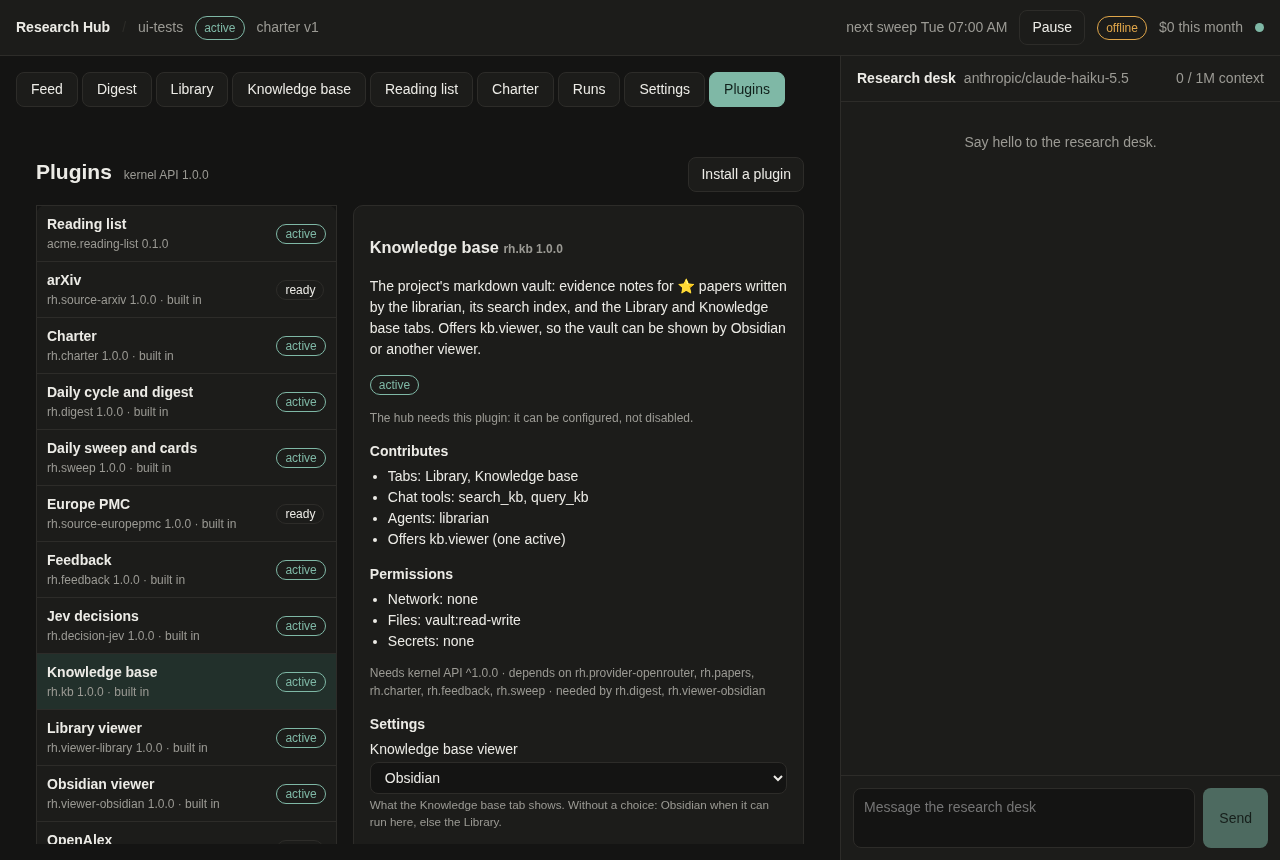
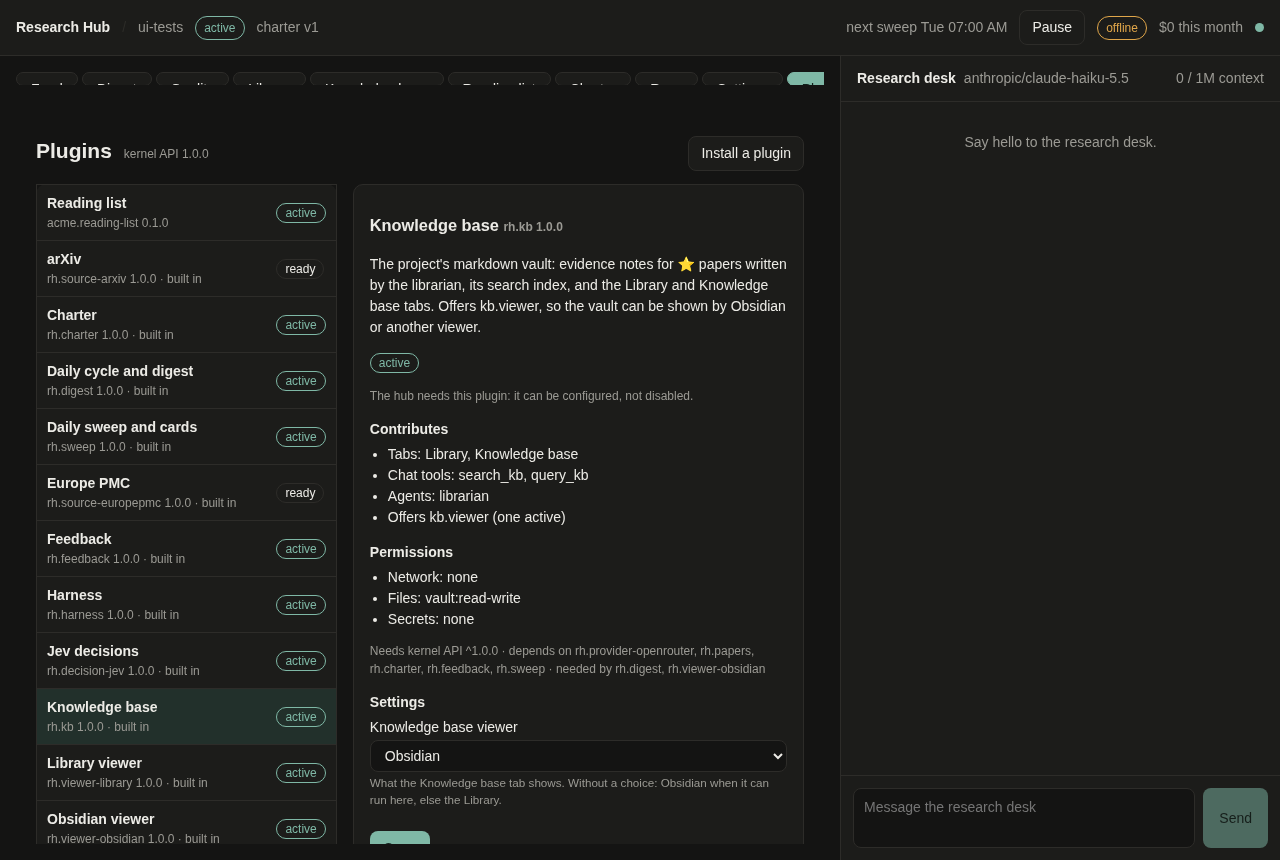
v1-2 4.2: the Quality tab and the digest's Quality section
The Quality tab shows the judge's agreement (with what it still needs to be
trusted), the cards over time, and every replay with its verdict, nDCG change
and held-out interval, plus a "Try a setting" form. Object settings such as
rankWeights are edited as JSON. Tab labels stay on one line.

diff --git a/apps/rh-client-browser/src/components/QualityTab.vue b/apps/rh-client-browser/src/components/QualityTab.vue
@@ -1,0 +1,146 @@
+<script setup lang="ts">
+// The Quality tab (spec harness: Quality view): how well the judge agrees with you, how good the cards have been
+// (the current settings replayed over past sweeps), and every replay with its numbers and verdict.
+import { computed, onMounted, ref } from "vue";
+import type { HarnessQuality, StoredReplay } from "@rh/sdk";
+import { client } from "../store.ts";
+
+const quality = ref<HarnessQuality>();
+const error = ref("");
+const variantText = ref('{ "cardsPerSweep": 10 }');
+const running = ref(false);
+const load = async () => {
+  try {
+    quality.value = await client.quality();
+  } catch (e) {
+    error.value = e instanceof Error ? e.message : String(e);
+  }
+};
+onMounted(load);
+
+const pct = (x: number | null | undefined) => (x === null || x === undefined ? "—" : `${Math.round(x * 100)}%`);
+const num = (x: number | undefined) => (x === undefined ? "—" : x.toFixed(2));
+const signed = (x: number) => `${x >= 0 ? "+" : ""}${x.toFixed(2)}`;
+const day = (iso: string) => new Date(iso).toLocaleDateString(undefined, { day: "numeric", month: "short" });
+const describe = (r: StoredReplay) =>
+  Object.entries(r.variant)
+    .map(([k, v]) => `${k} ${typeof v === "object" ? JSON.stringify(v) : v}`)
+    .join(", ") || "current settings";
+const judgeNote = computed(() => {
+  const j = quality.value?.judge;
+  if (!j) return "The judge is calibrated each night once you have judged cards.";
+  if (j.trusted) return "Trusted: unjudged papers in replays are labelled by the judge.";
+  if (j.cases < j.minCases) return `Not trusted yet: ${j.minCases - j.cases} more judged cards needed.`;
+  return `Not trusted: it needs ${pct(j.minAgreement)} agreement. Replays use only your judgments.`;
+});
+
+async function replay() {
+  error.value = "";
+  let variant: unknown;
+  try {
+    variant = JSON.parse(variantText.value);
+  } catch {
+    error.value = `The setting must be JSON, for example { "cardsPerSweep": 10 }.`;
+    return;
+  }
+  running.value = true;
+  try {
+    await client.replay(variant as never);
+    await load();
+  } catch (e) {
+    error.value = e instanceof Error ? e.message : String(e);
+  } finally {
+    running.value = false;
+  }
+}
+</script>
+
+<template>
+  <div class="quality">
+    <h2>Quality</h2>
+    <p class="muted">
+      How good your cards have been, measured on your own judgments. Changes to how papers are found are replayed on
+      past sweeps before anything changes; the most recent sweeps are held out to check a result is real.
+    </p>
+    <p v-if="error" class="error">{{ error }}</p>
+    <template v-if="quality">
+      <section class="digest-section" data-test="judge">
+        <h3>The judge</h3>
+        <p>
+          Agrees with you in <strong>{{ pct(quality.judge?.agreement) }}</strong> of
+          {{ quality.judge?.cases ?? 0 }} judged cards<template
+            v-if="quality.judge?.kappa !== null && quality.judge?.kappa !== undefined"
+          >
+            (kappa {{ quality.judge.kappa.toFixed(2) }})</template
+          >.
+        </p>
+        <p class="muted small">
+          {{ judgeNote }} Labels: {{ quality.labels.judged }} yours, {{ quality.labels.judge }} the judge's.
+        </p>
+      </section>
+
+      <section class="digest-section">
+        <h3>Your cards over time</h3>
+        <p v-if="!quality.overTime.length" class="muted">No finished sweeps yet.</p>
+        <table v-else class="small">
+          <thead>
+            <tr>
+              <th>Sweep</th>
+              <th>nDCG</th>
+              <th>Precision@5</th>
+              <th>Judged</th>
+            </tr>
+          </thead>
+          <tbody>
+            <tr v-for="q in quality.overTime" :key="q.sweepId" class="static">
+              <td>{{ day(q.startedAt) }}</td>
+              <td>{{ num(q.ndcg) }}</td>
+              <td>{{ pct(q.precision5) }}</td>
+              <td>{{ pct(q.coverage) }}</td>
+            </tr>
+          </tbody>
+        </table>
+      </section>
+
+      <section class="digest-section" data-test="replays">
+        <h3>Replays</h3>
+        <p v-if="!quality.replays.length" class="muted">
+          No replays yet. The weekly upgrade runs them; you can ask the desk ("would 10 cards a day be better?") or try
+          one here.
+        </p>
+        <ul class="replays">
+          <li v-for="r in quality.replays" :key="r.id" :data-verdict="r.report.verdict">
+            <div>
+              <span class="badge" :class="'verdict-' + r.report.verdict.replaceAll(' ', '-')">{{
+                r.report.verdict
+              }}</span>
+              <strong>{{ describe(r) }}</strong>
+              <span class="muted small"> · {{ day(r.createdAt) }} · by {{ r.requestedBy }}</span>
+            </div>
+            <div v-if="r.report.verdict === 'not enough data'" class="small muted">
+              {{ r.report.sweeps.labelled }} of {{ r.report.sweeps.total }} past sweeps have judged cards; 3 are needed.
+            </div>
+            <div v-else class="small">
+              nDCG {{ num(r.report.mean.current.ndcg) }} → {{ num(r.report.mean.candidate.ndcg) }}; latest
+              {{ r.report.heldOut.n }} sweeps {{ signed(r.report.heldOut.diff) }} (95 % interval
+              {{ signed(r.report.heldOut.low) }} to {{ signed(r.report.heldOut.high) }}); precision@5
+              {{ pct(r.report.mean.current.precision5) }} → {{ pct(r.report.mean.candidate.precision5) }}
+              <span v-if="r.report.estimated" class="muted"> · {{ r.report.estimated }} estimated</span>
+              <span class="muted"> · {{ r.report.judgeUsed ? "with the judge's labels" : "your judgments only" }}</span>
+            </div>
+          </li>
+        </ul>
+        <details>
+          <summary class="small">Try a setting</summary>
+          <form class="comment-form" @submit.prevent="replay">
+            <input v-model="variantText" aria-label="Setting to replay" />
+            <button class="ghost" type="submit" :disabled="running">{{ running ? "Replaying…" : "Replay" }}</button>
+          </form>
+          <p class="muted small">
+            Any of relevanceMin, worthMin, rankWeights, cardsPerSweep, explorationPicks. Nothing changes; no paid calls.
+          </p>
+        </details>
+      </section>
+    </template>
+  </div>
+</template>

diff --git a/apps/rh-client-browser/src/components/PluginSettingsForm.vue b/apps/rh-client-browser/src/components/PluginSettingsForm.vue
@@ -15,11 +15,18 @@ const emit = defineEmits<{ saved: [] }>();
 const plugins = usePlugins();
 const form = ref<Record<string, unknown>>({});
 const problems = ref<string[]>([]);
+/** Object and array settings are edited as JSON. */
+const json = ref<Record<string, string>>({});
 const saved = ref("");
 watch(
   () => props.values,
   // A choice that is not saved shows as "" (Automatic, for the viewer).
-  (v) => (form.value = Object.fromEntries(Object.keys(props.properties).map((k) => [k, v[k] ?? ""]))),
+  (v) => {
+    form.value = Object.fromEntries(Object.keys(props.properties).map((k) => [k, v[k] ?? ""]));
+    json.value = Object.fromEntries(
+      Object.keys(props.properties).map((k) => [k, v[k] === undefined ? "" : JSON.stringify(v[k], null, 1)]),
+    );
+  },
   { immediate: true, deep: true },
 );
 /** Choices for a property: its enum, or the contributions to the extension point it selects (kb.viewer). */
@@ -46,6 +53,14 @@ async function save() {
   for (const key of Object.keys(props.properties)) {
     const before = props.values[key] ?? "";
     let value = form.value[key];
+    if (props.properties[key].type === "object" || props.properties[key].type === "array") {
+      try {
+        value = json.value[key].trim() ? JSON.parse(json.value[key]) : "";
+      } catch {
+        problems.value = [`${key}: not valid JSON`];
+        return;
+      }
+    }
     const type = props.properties[key].type;
     if ((type === "integer" || type === "number") && typeof value === "string" && value.trim() !== "")
       value = Number(value);
@@ -75,6 +90,12 @@ async function save() {
         <select v-if="choices[key]" v-model="form[key]">
           <option v-for="c in choices[key]" :key="String(c.value)" :value="c.value">{{ c.label }}</option>
         </select>
+        <textarea
+          v-else-if="p.type === 'object' || p.type === 'array'"
+          v-model="json[key]"
+          rows="3"
+          spellcheck="false"
+        />
         <input
           v-else
           v-model="form[key]"

diff --git a/apps/rh-client-browser/e2e/quality.spec.ts b/apps/rh-client-browser/e2e/quality.spec.ts
@@ -1,0 +1,28 @@
+// Spec harness: Quality view (v1-2 task 4.2).
+import { join } from "node:path";
+import { expect, test } from "@playwright/test";
+
+const SHOTS = join(import.meta.dirname, "../../../openspec/changes/v1-2-harness/trial");
+
+test("the Quality tab shows the judge, the cards over time and a replay with its verdict", async ({ page }) => {
+  await page.goto("#/quality");
+  await expect(page.getByRole("heading", { name: "Quality", exact: true })).toBeVisible();
+  await expect(page.locator('[data-test="judge"]')).toContainText("Agrees with you");
+  await page.getByText("Try a setting").click();
+  await page.getByLabel("Setting to replay").fill('{ "cardsPerSweep": 9 }');
+  await page.getByRole("button", { name: "Replay" }).click();
+  await expect(page.locator('[data-test="replays"] li').first()).toContainText("cardsPerSweep 9");
+  await expect(page.locator('[data-test="replays"] li').first()).toContainText("not enough data");
+  await page.getByLabel("Setting to replay").fill('{ "cardsPerSweep": 40 }');
+  await page.getByRole("button", { name: "Replay" }).click();
+  await expect(page.locator(".quality .error")).toContainText("cardsPerSweep: must be an integer from 1 to 15");
+});
+
+for (const scheme of ["light", "dark"] as const)
+  test(`screenshot of the Quality tab (${scheme})`, async ({ browser }) => {
+    const page = await browser.newPage({ colorScheme: scheme, viewport: { width: 1280, height: 860 } });
+    await page.goto("#/quality");
+    await expect(page.locator('[data-test="replays"]')).toBeVisible();
+    await page.screenshot({ path: join(SHOTS, `quality-${scheme}.png`), fullPage: true });
+    await page.close();
+  });

diff --git a/apps/rh-client-browser/src/components/DigestTab.vue b/apps/rh-client-browser/src/components/DigestTab.vue
@@ -19,6 +19,7 @@ const sections: { id: DigestSection; title: string }[] = [
   { id: "judgments", title: "Your judgments" },
   { id: "exploration", title: "Exploration picks" },
   { id: "knowledgeBase", title: "Knowledge base" },
+  { id: "quality", title: "Quality" },
   { id: "cost", title: "Cost" },
   { id: "changes", title: "What changed" },
   { id: "general", title: "Anything else" },
@@ -153,6 +154,20 @@ async function undo(commit: string, message: string) {
           <p v-if="!digest.knowledgeBase.added.length" class="muted">No new notes.</p>
           <ul class="small">
             <li v-for="n in digest.knowledgeBase.added" :key="n.stem">{{ n.title }}</li>
+          </ul>
+        </template>
+        <template v-else-if="sec.id === 'quality'">
+          <p v-if="!digest.quality?.judge" class="muted">The judge has not been calibrated yet.</p>
+          <p v-else>
+            The judge agrees with you in {{ pct(digest.quality.judge.agreement) }} of
+            {{ digest.quality.judge.cases }} cases ({{ digest.quality.judge.trusted ? "trusted" : "not trusted yet" }}).
+          </p>
+          <ul class="small">
+            <li v-for="r in digest.quality?.replays ?? []" :key="r.id">
+              {{ Object.keys(r.variant).join(", ") || "current settings" }}: <strong>{{ r.verdict }}</strong> ({{
+                r.heldOutDiff >= 0 ? "+" : ""
+              }}{{ r.heldOutDiff.toFixed(2) }} nDCG)
+            </li>
           </ul>
         </template>
         <template v-else-if="sec.id === 'cost'">

diff --git a/apps/rh-client-browser/src/styles.css b/apps/rh-client-browser/src/styles.css
@@ -1060,3 +1060,40 @@ button.danger {
 .cycle-status {
   margin: 4px 0 8px;
 }
+
+/* Quality (v1.2) */
+.quality {
+  padding: 16px 20px 40px;
+  overflow: auto;
+}
+.replays {
+  list-style: none;
+  padding: 0;
+}
+.replays li {
+  padding: 6px 0;
+  border-bottom: 1px solid var(--line);
+}
+.badge.verdict-better {
+  color: var(--accent);
+  border-color: var(--accent);
+}
+.badge.verdict-worse {
+  color: var(--error);
+  border-color: var(--error);
+}
+.plugin-settings textarea {
+  font:
+    12px/1.4 ui-monospace,
+    monospace;
+}
+
+/* Many tabs: keep labels on one line and let the bar scroll. */
+.tabs {
+  overflow-x: auto;
+  flex-wrap: nowrap;
+}
+.tabs button {
+  white-space: nowrap;
+  flex: none;
+}

diff --git a/apps/rh-client-browser/src/App.vue b/apps/rh-client-browser/src/App.vue
@@ -10,6 +10,7 @@ import FeedView from "./components/FeedView.vue";
 import KnowledgeTab from "./components/KnowledgeTab.vue";
 import LibraryTab from "./components/LibraryTab.vue";
 import PluginsTab from "./components/PluginsTab.vue";
+import QualityTab from "./components/QualityTab.vue";
 import RunsView from "./components/RunsView.vue";
 import SettingsTab from "./components/SettingsTab.vue";
 import TopBar from "./components/TopBar.vue";
@@ -20,6 +21,7 @@ import { usePlugins } from "./stores/plugins.ts";
 const views = {
   feed: FeedView,
   digest: DigestTab,
+  quality: QualityTab,
   library: LibraryTab,
   charter: CharterTab,
   runs: RunsView,

diff --git a/apps/rh-client-browser/e2e/plugins.spec.ts b/apps/rh-client-browser/e2e/plugins.spec.ts
@@ -20,6 +20,7 @@ test("the tab bar comes from the plugins, and a plugin's own tab renders as a cu
   await expect(tabs(page)).toHaveText([
     "Feed",
     "Digest",
+    "Quality",
     "Library",
     "Knowledge base",
     "Reading list",

diff --git a/openspec/changes/v1-2-harness/tasks.md b/openspec/changes/v1-2-harness/tasks.md
@@ -13,7 +13,7 @@
 ## 4. Plugin, API, UI
 
 - [x] 4.1 `rh.harness` plugin: tables, `cycle.nightly` listener, replays stored, routes `/v1/harness/quality`, `/v1/harness/replays`, `POST /v1/harness/replay`, SDK; the digest's Quality section; the `replay_variant` desk tool; verify API tests and a chat round trip offline
-- [ ] 4.2 UI: the Quality tab (judge agreement, quality over time, replays) and the digest's Quality section; verify build and Playwright tests with screenshots
+- [x] 4.2 UI: the Quality tab (judge agreement, quality over time, replays) and the digest's Quality section; verify build and Playwright tests with screenshots
 
 ## 5. Integration
 
